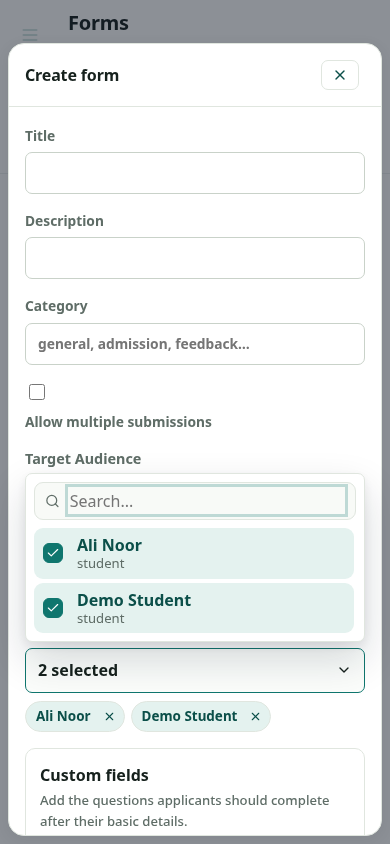
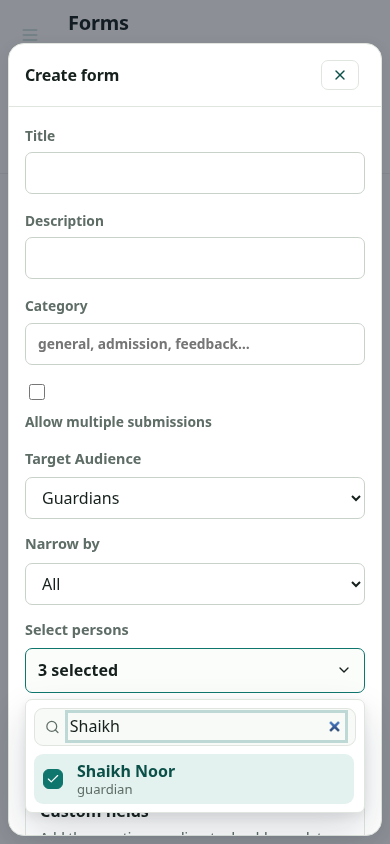
Preserve mixed-role audience selections

Changed region(s): [[0.0615, 0.5545, 0.9538, 0.8009], [0.0615, 0.8318, 0.9538, 0.9858]]

diff --git a/app/src/components/StagedAudiencePicker.tsx b/app/src/components/StagedAudiencePicker.tsx
@@ -48,6 +48,8 @@ export function StagedAudiencePicker({
   const triggerRef = useRef<HTMLButtonElement>(null);
   const searchInputRef = useRef<HTMLInputElement>(null);
   const listboxId = useRef(`people-picker-${crypto.randomUUID()}`);
+  const roleSelectId = useRef(`audience-role-${crypto.randomUUID()}`);
+  const narrowSelectId = useRef(`audience-narrow-${crypto.randomUUID()}`);
   const [activeOptionIndex, setActiveOptionIndex] = useState(0);
 
   const [classes, setClasses] = useState<AcademicClass[]>([]);
@@ -68,8 +70,7 @@ export function StagedAudiencePicker({
     return t("selectedPeopleCount", { count: selectedPersons.length, defaultValue: `${selectedPersons.length} selected` });
   }, [roleLabel, selectedPersons, t]);
 
-  const resetPersonSelection = () => {
-    setSelectedPersons([]);
+  const resetPersonSearch = () => {
     setSearchQuery("");
     setAllPersons([]);
   };
@@ -196,11 +197,14 @@ export function StagedAudiencePicker({
     setActiveOptionIndex(0);
   }, [roleMode, searchQuery, selectedClassId, selectedSectionId, narrowMode]);
 
+  const personKey = (person: SelectedPerson) => person.user_id || `${person.role}:${person.id}`;
+
   const togglePerson = (person: SelectedPerson) => {
-    const exists = selectedPersons.some((p) => p.id === person.id);
+    const key = personKey(person);
+    const exists = selectedPersons.some((p) => personKey(p) === key);
     let next: SelectedPerson[];
     if (exists) {
-      next = selectedPersons.filter((p) => p.id !== person.id);
+      next = selectedPersons.filter((p) => personKey(p) !== key);
     } else {
       next = [...selectedPersons, person];
     }
@@ -260,9 +264,10 @@ export function StagedAudiencePicker({
 
   const updateScope = (persons: SelectedPerson[]) => {
     const userIds = persons.map((p) => p.user_id).filter(Boolean);
+    const roles = Array.from(new Set(persons.map((p) => p.role === "guardian" ? "parent" : p.role)));
     const scope: Scope = {
       all: false,
-      roles: [roleMode === "guardians" ? "parent" : roleMode.slice(0, -1)],
+      roles: roles.length > 0 ? roles : [roleMode === "guardians" ? "parent" : roleMode.slice(0, -1)],
       classes: [],
       sections: [],
       courses: [],
@@ -285,7 +290,7 @@ export function StagedAudiencePicker({
   }, [narrowMode, onChange, roleMode, selectedClassId, selectedPersons.length, selectedSectionId]);
 
   const removePerson = (personId: string) => {
-    const next = selectedPersons.filter((p) => p.id !== personId);
+    const next = selectedPersons.filter((p) => personKey(p) !== personId);
     setSelectedPersons(next);
     updateScope(next);
   };
@@ -295,33 +300,33 @@ export function StagedAudiencePicker({
     setNarrowMode("all");
     setSelectedClassId("");
     setSelectedSectionId("");
-    resetPersonSelection();
+    resetPersonSearch();
   };
 
   const handleNarrowChange = (nextMode: NarrowMode) => {
     setNarrowMode(nextMode);
     setSelectedClassId("");
     setSelectedSectionId("");
-    resetPersonSelection();
+    resetPersonSearch();
   };
 
   const handleClassChange = (classId: string) => {
     setSelectedClassId(classId);
     setSelectedSectionId("");
-    resetPersonSelection();
+    resetPersonSearch();
   };
 
   const handleSectionChange = (sectionId: string) => {
     setSelectedSectionId(sectionId);
-    resetPersonSelection();
+    resetPersonSearch();
   };
 
   return (
     <div className="stagedAudiencePicker">
       {/* Stage 1: Role Selection */}
       <div className="stage">
-        <label>{t("targetAudienceLabel")}</label>
-        <Select value={roleMode} onChange={(e) => handleRoleChange(e.target.value as RoleMode)}>
+        <label htmlFor={roleSelectId.current}>{t("targetAudienceLabel")}</label>
+        <Select id={roleSelectId.current} value={roleMode} onChange={(e) => handleRoleChange(e.target.value as RoleMode)}>
           <option value="teachers">{t("teachers")}</option>
           <option value="students">{t("students")}</option>
           <option value="guardians">{t("guardians")}</option>
@@ -330,20 +335,20 @@ export function StagedAudiencePicker({
 
       {/* Stage 2: Narrow by Class/Section */}
       <div className="stage">
-        <label>{t("narrowByLabel", "Narrow by")}</label>
-        <Select value={narrowMode} onChange={(e) => handleNarrowChange(e.target.value as NarrowMode)}>
+        <label htmlFor={narrowSelectId.current}>{t("narrowByLabel", "Narrow by")}</label>
+        <Select id={narrowSelectId.current} value={narrowMode} onChange={(e) => handleNarrowChange(e.target.value as NarrowMode)}>
           <option value="all">{t("allLabel", "All")}</option>
           <option value="classes">{t("classesLabel", "Classes")}</option>
           <option value="sections">{t("sectionsCol", "Sections")}</option>
         </Select>
         {(narrowMode === "classes" || narrowMode === "sections") && (
-          <Select value={selectedClassId} onChange={(e) => handleClassChange(e.target.value)}>
+          <Select aria-label={t("allClasses", "All classes")} value={selectedClassId} onChange={(e) => handleClassChange(e.target.value)}>
             <option value="">{t("allClasses", "All classes")}</option>
             {classes.map((c) => <option key={c.id} value={c.id}>{c.name}</option>)}
           </Select>
         )}
         {narrowMode === "sections" && selectedClassId && (
-          <Select value={selectedSectionId} onChange={(e) => handleSectionChange(e.target.value)}>
+          <Select aria-label={t("allSections", "All sections")} value={selectedSectionId} onChange={(e) => handleSectionChange(e.target.value)}>
             <option value="">{t("allSections", "All sections")}</option>
             {(sections[selectedClassId] ?? []).map((s) => <option key={s.id} value={s.id}>{s.name}</option>)}
           </Select>
@@ -371,9 +376,9 @@ export function StagedAudiencePicker({
           {selectedPersons.length > 0 && (
             <div className="selectedChips" aria-label={t("selectedPeopleCount", { count: selectedPersons.length, defaultValue: "Selected people" })}>
               {selectedPersons.map((p) => (
-                <span key={p.id} className="chip">
+                <span key={personKey(p)} className="chip">
                   {p.name}
-                  <button type="button" aria-label={t("removePersonLabel", { name: p.name, defaultValue: `Remove ${p.name}` })} onClick={() => removePerson(p.id)}>
+                  <button type="button" aria-label={t("removePersonLabel", { name: p.name, defaultValue: `Remove ${p.name}` })} onClick={() => removePerson(personKey(p))}>
                     <X size={13} />
                   </button>
                 </span>
@@ -402,7 +407,7 @@ export function StagedAudiencePicker({
                 {isLoading && <p className="peopleMultiSelectState">{t("loadingLabel", "Loading...")}</p>}
                 {!isLoading && filteredPersons.length === 0 && <p className="peopleMultiSelectState">{t("noResults", "No results")}</p>}
                 {!isLoading && filteredPersons.map((person, index) => {
-                  const selected = selectedPersons.some((p) => p.id === person.id);
+                  const selected = selectedPersons.some((p) => personKey(p) === personKey(person));
                   return (
                     <button
                       key={person.id}

diff --git a/IMPLEMENTED.md b/IMPLEMENTED.md
@@ -89,8 +89,11 @@ Fresh evidence from this pass:
   searchable multi-select: the trigger exposes listbox controls, the searchbox
   keeps `aria-activedescendant`, ArrowUp/ArrowDown/Home/End move the active
   option, Enter/Space toggles selection, Escape closes cleanly, and selected
-  chips remain visible. Evidence: `test:audience-picker` now selects multiple
-  students entirely from the keyboard on desktop and mobile and refreshes
+  chips remain visible. It also preserves selected people while changing role
+  filters and submits mixed student/guardian user IDs with both `student` and
+  `parent` roles. Evidence: `test:audience-picker` now selects students and a
+  guardian entirely from the keyboard on desktop and mobile, asserts the create
+  form API payload, and refreshes
   `artifacts/audience-picker/audience-picker-*.png`; production build and the
   unsafe-type ratchet passed after the change.
 
